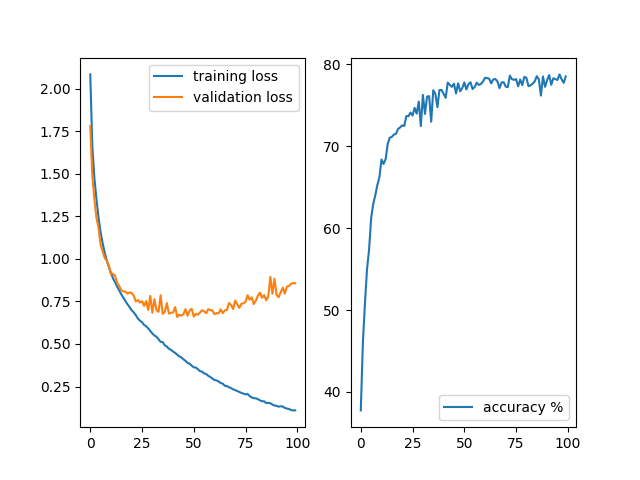
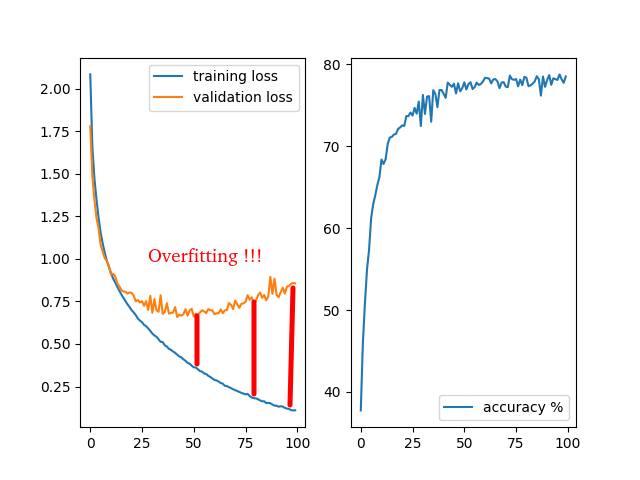
modificaciones en codigoy readme ademas de agregar nuevas imagenes para readme

diff --git a/inference.py b/inference.py
@@ -65,7 +65,7 @@ model.load_state_dict(torch.load("model/cifar10Model25.pth", weights_only=True))
 model.eval()
 
 
-image_path = "inputs/bird.png"
+image_path = "inputs/truck.png"
 
 image = Image.open(image_path).convert('RGB')
 image_arr = np.array(image)

diff --git a/README.md b/README.md
@@ -1,1 +1,166 @@
 # CIFAR 10 - CNN  Pytorch
+
+This project implements a Convolutional Neural Network (CNN) using PyTorch to classify images from the CIFAR-10 dataset.
+
+The main goal of the project is educational:
+
+- Understand how **CNNs** work internally
+
+- Learn the full training and inference pipeline
+
+- Analyze **overfitting**
+
+- Compare **CPU vs GPU performance**
+
+- Build a solid foundation before moving to more complex architectures
+
+The final model achieves approximately **80% accuracy** on the validation set.
+
+---
+
+## Dataset
+
+The dataset used is **CIFAR-10**, which consists of **60,000 RGB images (32×32)** divided into 10 classes:
+
+- airplane
+
+- automobile
+
+- bird
+
+- cat
+
+- deer
+
+- dog
+
+- frog
+
+- horse
+
+- ship
+
+- truck
+
+The dataset with train and test images (**>300k** images) is not included in this repository due to its size.
+
+Dataset download link (Kaggle): https://www.kaggle.com/competitions/cifar-10/data
+
+#### CIFAR-10 DATASET
+
+<p align = "left">
+    <img src = "resources/CIFARImage.png" alt = "MNIST dataset image" width = "400"/>
+</p>
+
+---
+
+## Model Architecture
+
+The implemented model is a simple effective CNN, designed to clearly demonstrate the core building blocks of convolutional networks.
+
+**Components**:
+
+- 3 convolutional layers
+
+- Batch Normalization after each convolution
+
+- Max Pooling for spatial downsampling
+
+- Fully connected layers
+
+- Dropout for regularization
+
+- ReLU activation
+
+- Output layer with 10 classes
+
+`Next image do not represent exactly de model architectura I've made, is a simple representation`: 
+
+
+<p align = "center">
+    <img src = "resources/CNNRepresentation.png" alt = "CNN representation" width = "500"/>
+</p>
+
+This architecture allows the network to learn hierarchical features, from simple edges in early layers to more complex object-level patterns in deeper layers.
+The network uses 3×3 convolutional kernels, which are standard in many CNN architectures.
+
+
+<p align = "center">
+    <img src = "resources/KernelCNN.png" alt = "Kernel representation" width = "500"/>
+</p>
+
+`A convolution applies a small kernel (e.g. 3×3) that slides across the image to extract local spatial patterns.
+This operation generates feature maps that highlight important structures such as edges, textures, and shapes.`
+
+
+
+---
+
+
+## Training Performance: CPU vs GPU
+
+
+Training time for **1 epoch (training + validation)** was compared using:
+
+- **CPU**: Intel i7 (10th Gen)
+
+- **GPU**: NVIDIA GTX 1650 Ti (Laptop)
+
+| Device | Time per epoch | Batch Size |
+| ------ | -------------- | ---------- |
+| CPU    | ~36 seconds    |     200    |
+| GPU    | ~8 seconds     |     200    |
+
+<p align = "center">
+    <img src = "resources/cpuTrainingTime.png" alt = "CPU time" width = "200"/>
+     <img src = "resources/gpuTrainingTime.png" alt = "CPU time" width = "200"/>
+</p>
+
+
+In anther repo project using **MNIST** https://github.com/AlejandroFontesAlbeza/nnMNISTPytorch with a simple **fully connected network (MLP)**, the training speed difference between CPU and GPU was negligible.
+
+However, for this project:
+
+- Convolutional layers involve a **large** number of matrix operations
+
+- GPUs are optimized for **massively parallel computation**
+
+- Even a relatively simple CNN benefits significantly from GPU acceleration
+
+This project clearly shows **when and why GPU training becomes worthwhile:**
+<p align = "center">
+    <img src = "resources/CPUvsGPU.png" alt = "CPU time" width = "300"/>
+</p>
+
+
+#### Training Analysis and Overfitting
+
+**- Initial training**
+
+The model was first trained for **100 epochs** to observe learning behavior.
+
+
+From approximately epoch 30:
+
+- Validation accuracy stops improving
+
+- Validation loss stagnates or increases
+
+- Signs of overfitting appear
+
+<p align = "left">
+    <img src = "resources/grafica100.png" alt = "CPU time" width = "500"/>
+</p>
+
+
+**- Optimized training: 25 epochs**
+
+Based on this observation, the model was retrained for **25 epochs.**
+
+- Similar or better performance
+- Reduced training time
+- More efficient use of resources
+
+<p align = "left">
+    <img src = "resources/grafica.png" alt = "CPU time" width = "500"/>
+</p>
